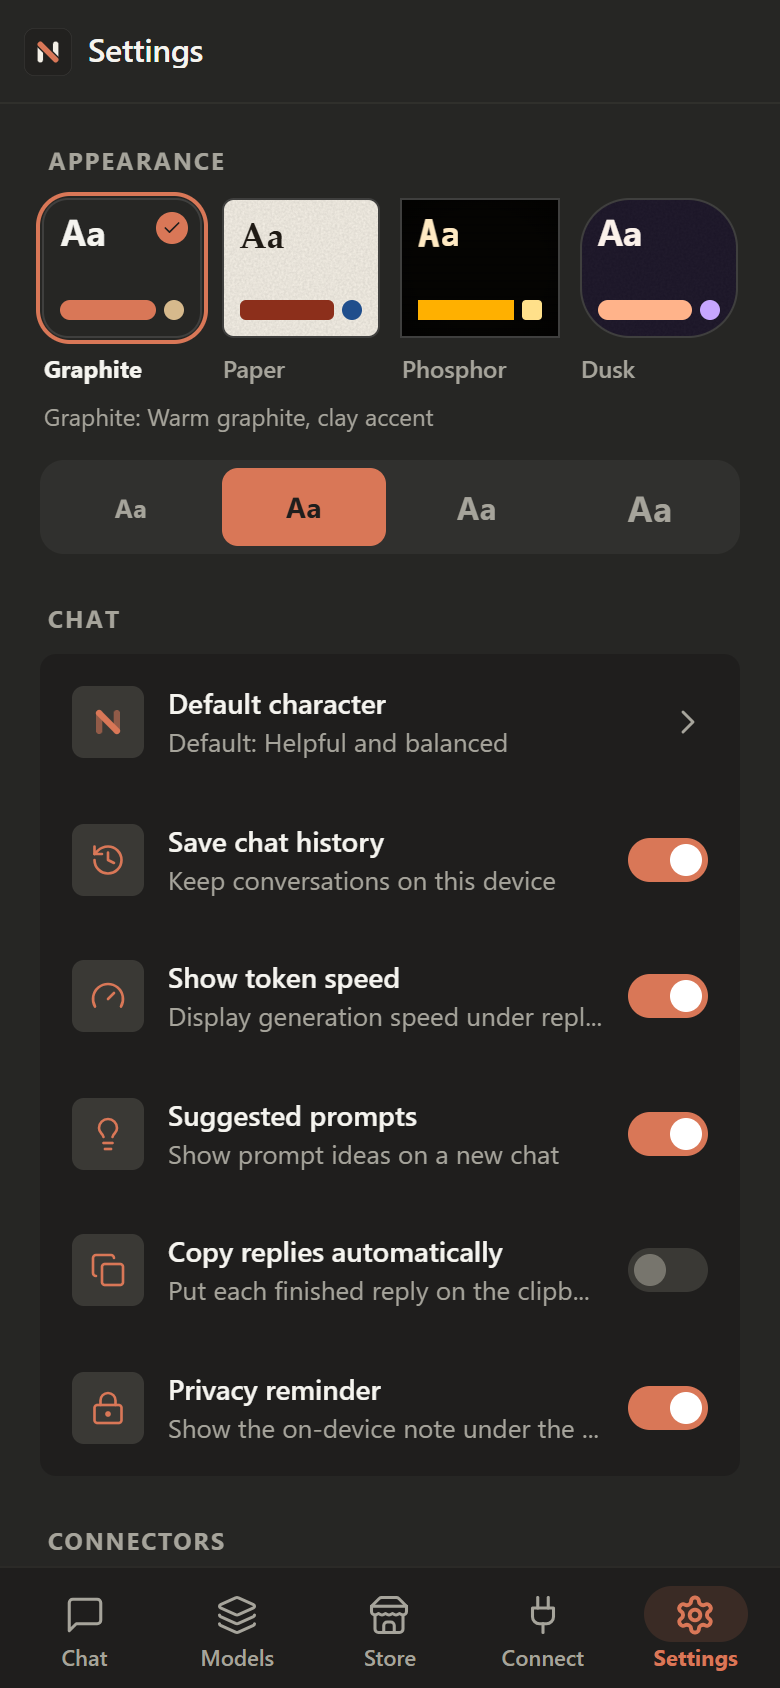
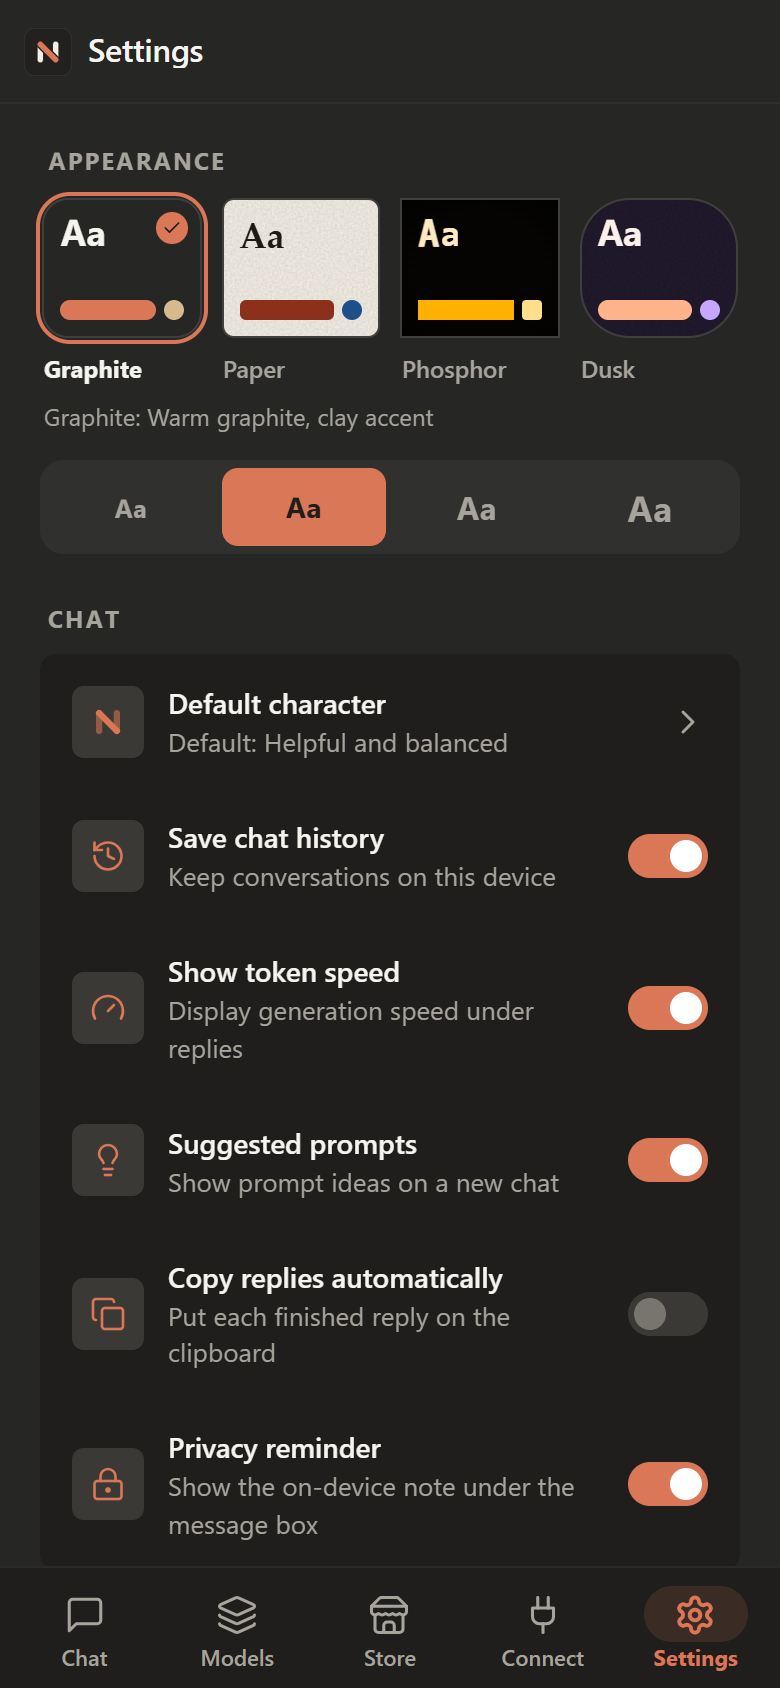
fix(ui): polish pass across phone and desktop
- A new friend opens a fresh chat with its greeting, not the last
  conversation
- Friend builder: templates and relationships size their columns to the
  space, so no label is cut off at any width
- Chat history: rename and delete are quiet icon buttons, so titles have
  room; delete turns red only when pointed at
- Store cards: tags and status move as one group on narrow phones
- Settings: explanations wrap instead of being cut off on phones, and
  Network use mentions connectors
- Labels on the clay accent use the theme ink everywhere (AA contrast)
- The instructions editor resolves its default colour through the theme
  instead of the old cyan; the swatch is called Theme accent
- About: accurate tagline and a GitHub icon for the source link
- The desktop sidebar says Model Store, like the tab and the page
- README screenshots retaken, with Friends on desktop and phone

diff --git a/src/pages/CharacterEditPage.tsx b/src/pages/CharacterEditPage.tsx
@@ -8,7 +8,7 @@ import { chatService } from "@/services";
 import type { Character, InferenceEvent } from "@/services/types";
 import { alpha } from "@/theme/alpha";
 import { tokens } from "@/theme/tokens";
-import { ACCENT_PALETTE, DEFAULT_ACCENT, isAccentHex } from "@/utils/characterAccent";
+import { ACCENT_PALETTE, DEFAULT_ACCENT, accentOf, isAccentHex } from "@/utils/characterAccent";
 import { LIMITS } from "@/utils/characterLimits";
 import { cleanResponse } from "@/utils/cleanResponse";
 import { shortId } from "@/utils/format";
@@ -324,7 +324,7 @@ const PrimaryBtn = styled.button`
   padding: 0.875rem;
   border-radius: ${tokens.borderRadius.lg};
   background: ${tokens.colors.primary};
-  color: ${tokens.colors.onPrimary};
+  color: ${tokens.colors.onPrimaryFixed};
   border: none;
   font-size: ${tokens.typography.fontSize.base};
   font-weight: ${tokens.typography.fontWeight.bold};
@@ -716,6 +716,9 @@ export function CharacterEditPage() {
 	if (isEditing && loaded && !existing) return <Navigate to="/chat" replace />;
 
 	const { name, description, icon, accentColor, prompt, temperature, topP, maxTokens, greeting, starters } = draft;
+	// The stored value, resolved the way chat shows it: the default swatch
+	// follows the theme, and light themes get darker hues.
+	const shownAccent = accentOf({ accent_color: accentColor } as Character);
 
 	return (
 		<AppLayout title={isEditing ? "Edit character" : "New character"} back={leave}>
@@ -729,7 +732,7 @@ export function CharacterEditPage() {
 								type="button"
 								role="radio"
 								$active={icon === choice}
-								$accent={accentColor}
+								$accent={shownAccent}
 								onClick={() => set("icon", choice)}
 								aria-label={choice.replace(/_/g, " ")}
 								aria-checked={icon === choice}
@@ -747,7 +750,7 @@ export function CharacterEditPage() {
 							<ColorSwatch
 								key={c.value}
 								type="button"
-								$color={c.value}
+								$color={accentOf({ accent_color: c.value } as Character)}
 								$active={accentColor === c.value}
 								onClick={() => set("accentColor", c.value)}
 								role="radio"
@@ -858,8 +861,8 @@ export function CharacterEditPage() {
 								Stop
 							</TestStop>
 						) : (
-							<TestBtn type="button" onClick={handleTry} disabled={!prompt.trim()} $accent={accentColor}>
-								<Icon name="play_arrow" size={16} color={accentColor} />
+							<TestBtn type="button" onClick={handleTry} disabled={!prompt.trim()} $accent={shownAccent}>
+								<Icon name="play_arrow" size={16} color={shownAccent} />
 								Test sample reply
 							</TestBtn>
 						)}
@@ -868,7 +871,7 @@ export function CharacterEditPage() {
 						(testError ? (
 							<TestErrorBox role="alert">{testError}</TestErrorBox>
 						) : (
-							<TestPanel $accent={accentColor} aria-live="polite">
+							<TestPanel $accent={shownAccent} aria-live="polite">
 								{testOutput || <TestEmpty>Generating…</TestEmpty>}
 							</TestPanel>
 						))}

diff --git a/src/pages/ChatHistoryPage.tsx b/src/pages/ChatHistoryPage.tsx
@@ -266,23 +266,26 @@ const RenameInput = styled.input`
   outline: none;
 `;
 
+/* Quiet icon buttons: the list is about the chats, so the actions stay out
+   of the way until pointed at or pressed. Delete only turns red then. */
 const ActionBtn = styled.button<{ $danger?: boolean }>`
-  width: 44px;
-  height: 44px;
-  background: ${({ $danger }) => $danger ? alpha(tokens.colors.error, "12") : tokens.colors.surfaceContainerHighest};
+  width: 40px;
+  height: 40px;
+  background: transparent;
   border: none;
   border-radius: ${tokens.borderRadius.lg};
+  color: ${tokens.colors.onSurfaceVariant};
   cursor: pointer;
   display: flex;
   align-items: center;
   justify-content: center;
   flex-shrink: 0;
-  transition: all ${tokens.transitions.fast};
+  transition: background ${tokens.transitions.fast}, color ${tokens.transitions.fast};
 
-  &:hover {
-    background: ${({ $danger }) => $danger ? alpha(tokens.colors.error, "22") : tokens.colors.surfaceBright};
+  &:hover, &:active {
+    background: ${({ $danger }) => ($danger ? alpha(tokens.colors.error, "1a") : tokens.colors.surfaceContainerHighest)};
+    color: ${({ $danger }) => ($danger ? tokens.colors.error : tokens.colors.onSurface)};
   }
-  &:active { transform: scale(0.9); }
 `;
 
 const ActionGroup = styled.div`
@@ -663,7 +666,7 @@ export function ChatHistoryPage() {
 														}}
 														aria-label={`Rename ${entry.title}`}
 													>
-														<Icon name="edit" size={18} color={tokens.colors.onSurfaceVariant} />
+														<Icon name="edit" size={17} />
 													</ActionBtn>
 													<ActionBtn
 														type="button"
@@ -671,7 +674,7 @@ export function ChatHistoryPage() {
 														onClick={() => handleDeleteOne(entry.id, entry.title)}
 														aria-label={`Delete ${entry.title}`}
 													>
-														<Icon name="delete" size={18} color={tokens.colors.error} />
+														<Icon name="delete" size={17} />
 													</ActionBtn>
 												</ActionGroup>
 											)}

diff --git a/src/pages/ModelStorePage.tsx b/src/pages/ModelStorePage.tsx
@@ -281,7 +281,7 @@ const RetryButton = styled.button`
   padding: 0.625rem 1.25rem;
   border-radius: ${tokens.borderRadius.lg};
   background: ${tokens.colors.primary};
-  color: ${tokens.colors.onPrimary};
+  color: ${tokens.colors.onPrimaryFixed};
   font-size: ${tokens.typography.fontSize.sm};
   font-weight: ${tokens.typography.fontWeight.bold};
   border: none;
@@ -352,12 +352,31 @@ const CardDesc = styled.p`
   overflow: hidden;
 `;
 
+/* Meters on the left, tags and status on the right. On a narrow phone the
+   right group moves under the meters as one piece rather than leaving a
+   lone tag on its own line. */
 const CardBottom = styled.div`
   display: flex;
+  flex-wrap: wrap;
   align-items: center;
   justify-content: space-between;
-  gap: 0.75rem;
+  gap: 0.5rem 0.75rem;
   margin-top: 0.5rem;
+`;
+
+const CardMeters = styled.div`
+  display: flex;
+  align-items: center;
+  gap: 0.875rem;
+`;
+
+const CardTags = styled.div`
+  display: flex;
+  align-items: center;
+  gap: 0.375rem;
+  margin-left: auto;
+
+  &:empty { display: none; }
 `;
 
 const Badge = styled.span<{ $tone: "ok" | "busy" | "muted" }>`
@@ -637,12 +656,14 @@ export function ModelStorePage() {
 										</CardTop>
 										<CardDesc>{m.description}</CardDesc>
 										<CardBottom>
-											<MeterRow style={{ marginTop: 0 }}>
+											<CardMeters>
 												<ModelMeters quality={m.quality} speed={m.speed} />
+											</CardMeters>
+											<CardTags>
 												{m.reasoning === "always" && <Tag>Thinks first</Tag>}
 												{m.reasoning === "optional" && <Tag>Can think</Tag>}
-											</MeterRow>
-											{statusBadge(m)}
+												{statusBadge(m)}
+											</CardTags>
 										</CardBottom>
 										{warn && (
 											<FitNote $severe={fit === "too_big"}>

diff --git a/src/pages/FriendEditPage.tsx b/src/pages/FriendEditPage.tsx
@@ -238,7 +238,7 @@ const TemplateStrip = styled.div`
 
   @media (min-width: 600px) {
     display: grid;
-    grid-template-columns: repeat(4, minmax(0, 1fr));
+    grid-template-columns: repeat(auto-fill, minmax(11rem, 1fr));
     margin: 0;
     padding: 0;
   }
@@ -319,7 +319,7 @@ const RelGrid = styled.div`
   grid-template-columns: repeat(2, minmax(0, 1fr));
   gap: 0.4375rem;
 
-  @media (min-width: 600px) { grid-template-columns: repeat(5, minmax(0, 1fr)); }
+  @media (min-width: 600px) { grid-template-columns: repeat(auto-fill, minmax(10rem, 1fr)); }
 `;
 
 const RelBtn = styled.button<{ $on: boolean; $accent: string }>`
@@ -337,7 +337,7 @@ const RelBtn = styled.button<{ $on: boolean; $accent: string }>`
   text-align: left;
   cursor: pointer;
 
-  span { min-width: 0; overflow: hidden; text-overflow: ellipsis; white-space: nowrap; }
+  span { min-width: 0; line-height: 1.2; }
   &:hover { border-color: ${({ $accent }) => $accent}; }
 `;
 
@@ -919,7 +919,8 @@ export function FriendEditPage() {
 				await setActiveCharacter(character.id).catch(() => {});
 				showToast(`${character.name} is ready to chat`, "success");
 				setInitial(draft);
-				navigate("/chat", { replace: true });
+				// A new chat with the new friend, not the last conversation.
+				navigate("/chat", { replace: true, state: { freshChat: true } });
 			}
 		} catch {
 			showToast("Couldn't save your friend. Your changes are still here.", "error");

diff --git a/src/pages/SettingsPage.tsx b/src/pages/SettingsPage.tsx
@@ -76,12 +76,13 @@ const RowTitle = styled.div`
   color: ${tokens.colors.onSurface};
 `;
 
+/* The line under a setting explains it, so it wraps rather than being cut
+   off on a narrow phone. */
 const RowSub = styled.div`
   font-size: ${tokens.typography.fontSize.sm};
+  line-height: 1.4;
   color: ${tokens.colors.onSurfaceVariant};
-  white-space: nowrap;
-  overflow: hidden;
-  text-overflow: ellipsis;
+  overflow-wrap: anywhere;
 `;
 
 /* ── Toggle Switch ── */
@@ -627,7 +628,7 @@ export function SettingsPage() {
 				<SectionHeading>Privacy</SectionHeading>
 				<Section>
 					{infoRow("cloud_off", "Runs on this device", "Models answer locally. Prompts and replies never leave it")}
-					{infoRow("wifi", "Network use", "Only to download models you choose")}
+					{infoRow("wifi", "Network use", "To download models, and for connectors you turn on")}
 					{infoRow("verified_user", "Telemetry", "None. No analytics, no tracking, no account")}
 				</Section>
 

diff --git a/src/pages/AboutPage.tsx b/src/pages/AboutPage.tsx
@@ -133,15 +133,15 @@ export function AboutPage() {
 				</LogoSection>
 
 				<Tagline>
-					Run powerful AI models directly on your device.
-					Fully offline. Completely private.
+					AI models that run on your own device.
+					They work offline, and your chats never leave it.
 				</Tagline>
 
 				<SectionTitle>Links</SectionTitle>
 				<Section>
 					<LinkRow type="button" onClick={() => openLink("https://github.com/Razee4315/neurix")}>
 						<LinkIcon>
-							<Icon name="deployed_code" size={18} color={tokens.colors.primary} />
+							<Icon name="github" size={18} color={tokens.colors.primary} />
 						</LinkIcon>
 						<LinkText>
 							<LinkTitle>Source Code</LinkTitle>

diff --git a/src/components/layout/Sidebar.tsx b/src/components/layout/Sidebar.tsx
@@ -19,7 +19,7 @@ import styled from "styled-components";
 const SECTIONS = [
 	{ icon: "chat_bubble", label: "Chats", path: "/chat", owns: ["/character", "/friend"] },
 	{ icon: "deployed_code", label: "Models", path: "/models", owns: [] },
-	{ icon: "storefront", label: "Model library", path: "/store", owns: ["/downloading"] },
+	{ icon: "storefront", label: "Model Store", path: "/store", owns: ["/downloading"] },
 	{ icon: "plug", label: "Connectors", path: "/connectors", owns: [] },
 ] as const;
 

diff --git a/src/utils/characterAccent.ts b/src/utils/characterAccent.ts
@@ -10,7 +10,7 @@ import { tokens } from "@/theme/tokens";
  * to remain visually distinct from each other at a glance in the picker.
  */
 export const ACCENT_PALETTE: ReadonlyArray<{ value: string; label: string }> = [
-	{ value: "#8ff5ff", label: "Electric blue" },
+	{ value: "#8ff5ff", label: "Theme accent" },
 	{ value: "#65afff", label: "Sky blue" },
 	{ value: "#c792ea", label: "Lavender" },
 	{ value: "#ff79c6", label: "Pink" },

diff --git a/src/components/character/CharacterPicker.tsx b/src/components/character/CharacterPicker.tsx
@@ -471,7 +471,7 @@ const PrimaryBtn = styled.button`
   padding: 0.625rem 1rem;
   border-radius: ${tokens.borderRadius.lg};
   background: ${tokens.colors.primary};
-  color: ${tokens.colors.onPrimary};
+  color: ${tokens.colors.onPrimaryFixed};
   border: none;
   font-size: ${tokens.typography.fontSize.sm};
   font-weight: ${tokens.typography.fontWeight.bold};

diff --git a/src/pages/ConnectorsPage.tsx b/src/pages/ConnectorsPage.tsx
@@ -377,7 +377,7 @@ const LinkBtn = styled.button`
 const PrimaryBtn = styled(ConnectBtn)`
   background: ${tokens.colors.primary};
   border-color: ${tokens.colors.primary};
-  color: ${tokens.colors.onPrimary};
+  color: ${tokens.colors.onPrimaryFixed};
 
   &:hover { background: ${tokens.colors.primaryDim}; }
   &:disabled { opacity: 0.6; cursor: default; }

diff --git a/README.md b/README.md
@@ -73,6 +73,10 @@ The same app runs on the desktop and on Android. On a wide window you get a side
 <td align="center"><img src="Screenshots/desktop/settings.png" width="420" /><br /><b>Settings</b></td>
 </tr>
 <tr>
+<td align="center"><img src="Screenshots/desktop/friend-builder.png" width="420" /><br /><b>Create a friend</b></td>
+<td align="center"><img src="Screenshots/desktop/friend-chat.png" width="420" /><br /><b>Chat with a friend</b></td>
+</tr>
+<tr>
 <td align="center"><img src="Screenshots/desktop/chat-paper.png" width="420" /><br /><b>Paper theme</b></td>
 <td></td>
 </tr>
@@ -92,6 +96,11 @@ The same app runs on the desktop and on Android. On a wide window you get a side
 <td align="center"><img src="Screenshots/mobile/store.png" width="200" /><br /><b>Model Store</b></td>
 <td align="center"><img src="Screenshots/mobile/models.png" width="200" /><br /><b>My Models</b></td>
 <td align="center"><img src="Screenshots/mobile/settings.png" width="200" /><br /><b>Settings</b></td>
+</tr>
+<tr>
+<td align="center"><img src="Screenshots/mobile/friend-builder.png" width="200" /><br /><b>Create a friend</b></td>
+<td align="center"><img src="Screenshots/mobile/friend-chat.png" width="200" /><br /><b>Chat with a friend</b></td>
+<td></td>
 </tr>
 </table>
 </div>
